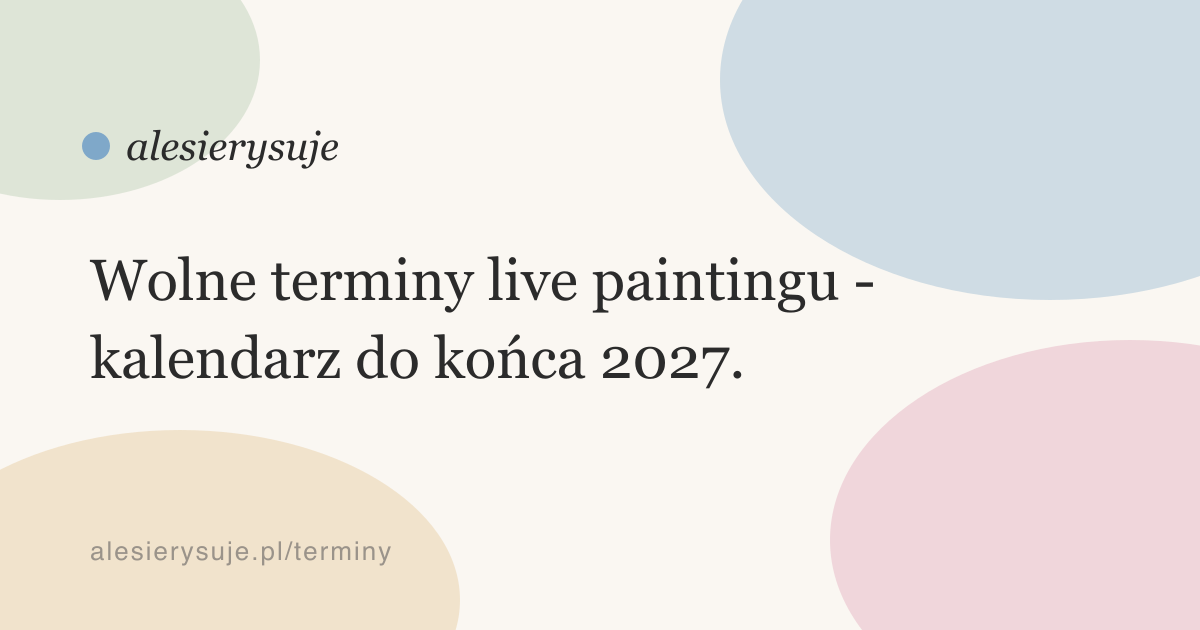
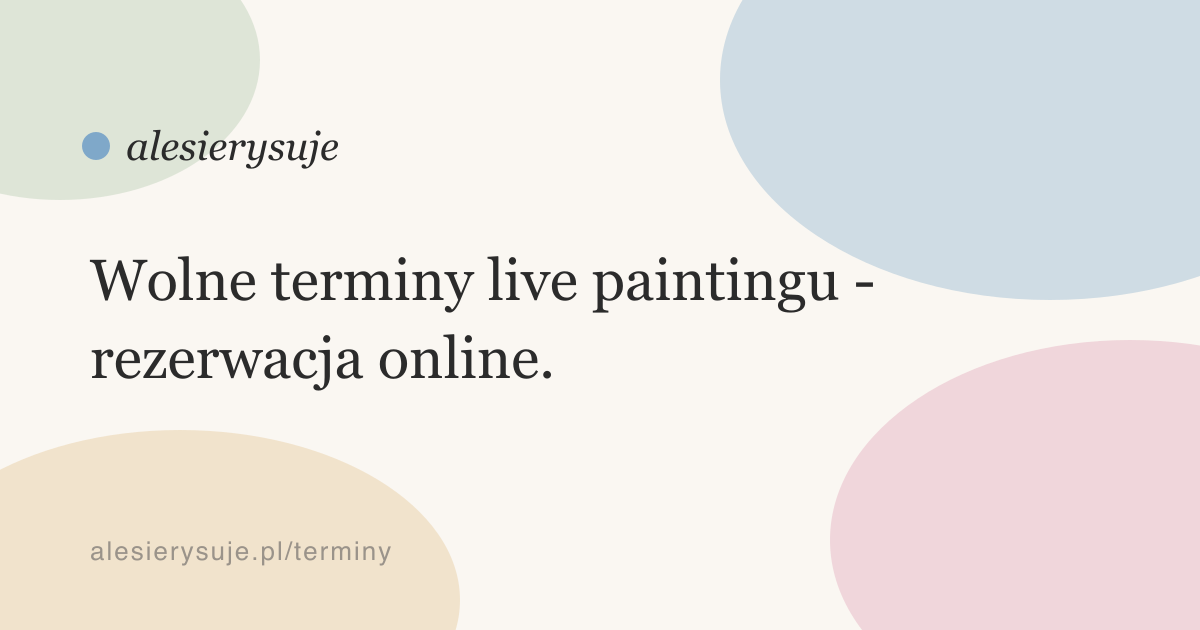
Terminy: krotszy H1, legenda pod kalendarzem, wezszy kalendarz wyrownany z panelem

Changed region(s): [[0.0617, 0.5127, 0.6167, 0.6333]]

diff --git a/app/routes/terminy.tsx b/app/routes/terminy.tsx
@@ -142,7 +142,7 @@ export default function Terminy({ loaderData }: Route.ComponentProps) {
       <WatercolorStain color="green" width={460} height={420} style={{ top: 60, left: -160 }} />
       <section className="pageshero" style={{ paddingBottom: 30 }}>
         <div className="wrap">
-          <h1 className="soak d1">Wolne terminy live paintingu - kalendarz do końca 2027.</h1>
+          <h1 className="soak d1">Wolne terminy live paintingu.</h1>
           <p className="lead soak d2">
             Kalendarz jest prawdziwy w czasie rzeczywistym - to, co widzicie, jest dostępne teraz.
             Wybierzcie dzień i wyślijcie bezpłatne zapytanie o rezerwację - odpowiedź wraca w 24 - 48
@@ -153,6 +153,14 @@ export default function Terminy({ loaderData }: Route.ComponentProps) {
       <section style={{ paddingTop: 0 }}>
         <div className="wrap cal-wrap">
           <div className="soak">
+            <Calendar
+              takenDates={takenDates}
+              todayISO={todayISO}
+              minMonth={minMonth}
+              maxMonth={maxMonth}
+              selected={selected}
+              onPick={pick}
+            />
             <div className="legend">
               <span>
                 <span className="ldot free" />
@@ -163,14 +171,6 @@ export default function Terminy({ loaderData }: Route.ComponentProps) {
                 termin zajęty
               </span>
             </div>
-            <Calendar
-              takenDates={takenDates}
-              todayISO={todayISO}
-              minMonth={minMonth}
-              maxMonth={maxMonth}
-              selected={selected}
-              onPick={pick}
-            />
           </div>
           <div className="bk soak d1" id="bkPanel">
             {sent ? (

diff --git a/scripts/generate-og.ts b/scripts/generate-og.ts
@@ -17,7 +17,7 @@ const PAGES: { file: string; lines: string[]; sub: string }[] = [
   { file: "realizacje", lines: ["Realizacje - malowanie", "na żywo i portrety."], sub: "alesierysuje.pl/realizacje" },
   { file: "cennik", lines: ["Cennik - live painting", "i portrety na zamówienie."], sub: "alesierysuje.pl/cennik" },
   { file: "o-mnie", lines: ["Aleksandra Sienica -", "maluję na żywo."], sub: "alesierysuje.pl/o-mnie" },
-  { file: "terminy", lines: ["Wolne terminy live paintingu -", "kalendarz do końca 2027."], sub: "alesierysuje.pl/terminy" },
+  { file: "terminy", lines: ["Wolne terminy live paintingu -", "rezerwacja online."], sub: "alesierysuje.pl/terminy" },
 ];
 
 function ogSvg(lines: string[], sub: string): string {

diff --git a/app/styles/app.css b/app/styles/app.css
@@ -1351,7 +1351,7 @@ section {
 /* ===== kalendarz ===== */
 .cal-wrap {
   display: grid;
-  grid-template-columns: 1.2fr 0.8fr;
+  grid-template-columns: 1fr 0.9fr;
   gap: 56px;
   align-items: start;
 }
@@ -1363,7 +1363,7 @@ section {
 .legend {
   display: flex;
   gap: 24px;
-  margin-bottom: 30px;
+  margin-top: 22px;
   font-size: 0.85rem;
   color: var(--color-ink-soft);
   flex-wrap: wrap;
@@ -1390,6 +1390,7 @@ section {
 }
 /* kalendarz w stylu macOS */
 .macal {
+  max-width: 540px;
   background: #fff;
   border: 1px solid var(--color-line-soft);
   border-radius: 12px;
